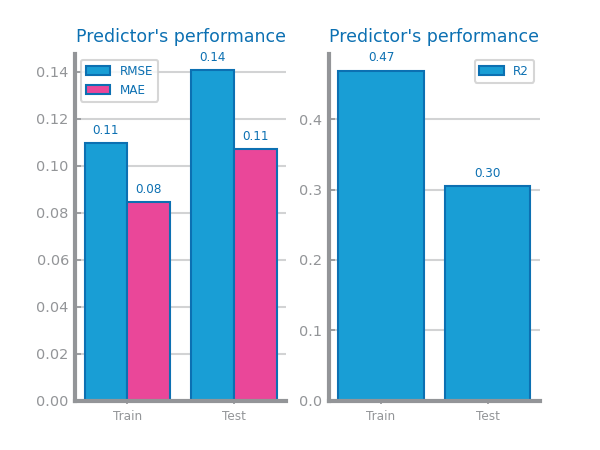
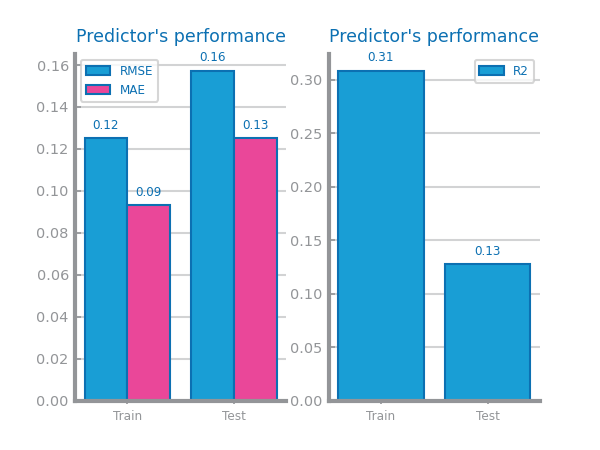
lstms for both datasets

diff --git a/climate_domain/forecasting/modeling_and_evaluation/lstm.py b/climate_domain/forecasting/modeling_and_evaluation/lstm.py
@@ -15,18 +15,22 @@ from matplotlib.pyplot import subplots, show, savefig
 from ts_functions import PREDICTION_MEASURES, plot_evaluation_results, plot_forecasting_series, sliding_window
 
 
-file_tag = 'glucose'
+file_tag = 'drought'
 file_name = f'{file_tag}'
 file_path = f'../datasets/{file_name}.csv'
 
-target = 'Glucose'
-index_col = 'Date'
+target = 'QV2M'
+index_col = 'date'
 
 measure = 'R2'
 flag_pct = False
 
 data = read_csv(file_path, index_col=index_col, sep=',', decimal='.', parse_dates=True, infer_datetime_format=True, dayfirst=True)
-data = data[target]
+
+# remove non-target columns
+for column in data:
+    if column != target:
+        data.drop(columns=column, inplace=True)
 
 
 class DS_LSTM(Module):
@@ -96,7 +100,9 @@ for el in max_iter[1:]:
 nCols = len(sequence_size)
 _, axs = subplots(1, nCols, figsize=(nCols*HEIGHT, HEIGHT), squeeze=False)
 values = {}
+
 for s in range(len(sequence_size)):
+
     length = sequence_size[s]
     trnX, trnY = sliding_window(train, seq_length = length)
     trnX, trnY  = Variable(Tensor(trnX)), Variable(Tensor(trnY))
